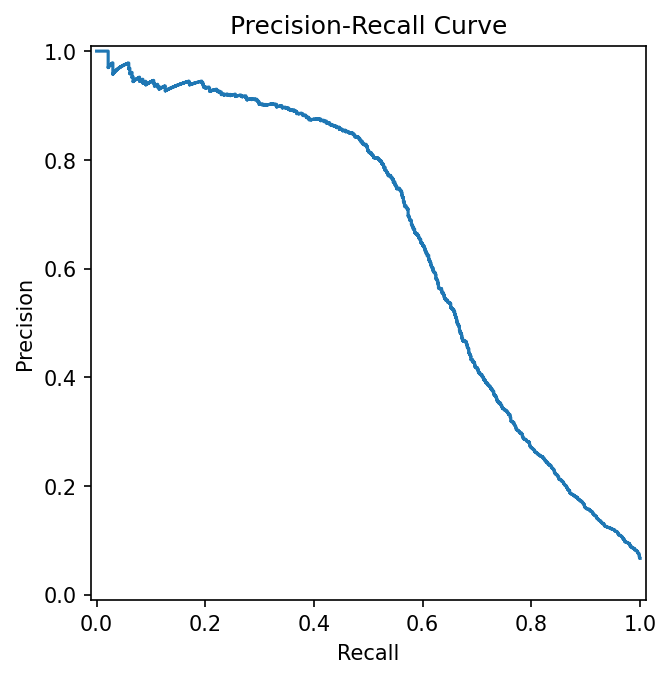
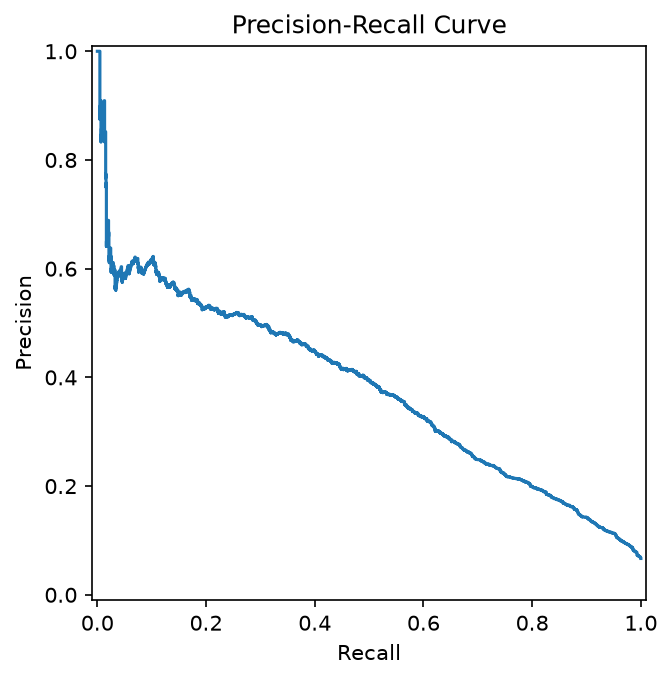
feat: 06·07을 저장된 최종 모델 로드 방식으로 바꾸고 새 데이터 기준 지표 재측정
- 06, 07: 하이퍼파라미터를 하드코딩해 재학습하던 코드를 models/xgboost_v1.0.joblib 로드로 교체
- 06: AUC 0.8640, KS 0.5745, PSI 0.0003 (MLflow final run 기록과 일치)
- 07: threshold별 precision/recall과 거절 건수 표, F1 최적 threshold 0.7758 vs KS 최적 0.4844,
  docs/precision_recall_curve.png 갱신. F1 계산 시 precision/recall 배열 길이를 thresholds에 맞춤
- docs/model_training.md: 타겟 누수가 섞인 옛 수치(AUC 0.9118 등)를 새 수치로 전면 교체
- .gitignore: 개인 Claude Code 설정(.claude/, CLAUDE.md) 제외

diff --git a/notebooks/07_precision_recall.py b/notebooks/07_precision_recall.py
@@ -1,23 +1,21 @@
-from src.config import FEATURE_GROUPS, TARGET
+import matplotlib
+matplotlib.use('Agg')   # 화면 없이 파일로만 그린다
+
+import joblib
+from src.config import FEATURE_GROUPS, MODEL_DIR, TARGET
 from src.data.pipeline import load_processed_splits
-from xgboost import XGBClassifier
 from sklearn.metrics import precision_recall_curve, PrecisionRecallDisplay
 import matplotlib.pyplot as plt
 import numpy as np
+from src.models.metrics import ks_statistic
 
 splits = load_processed_splits()
 train, test = splits['train'], splits['test']
 y_train, y_test = train[TARGET], test[TARGET]
 features = FEATURE_GROUPS['combined']
-scale_pos = (y_train == 0).sum() / (y_train == 1).sum()
 
-model = XGBClassifier(
-    scale_pos_weight=scale_pos,
-    max_depth=4, learning_rate=0.041, n_estimators=233,
-    subsample=0.78, colsample_bytree=0.72, min_child_weight=9,
-    eval_metric='auc', random_state=42,
-)
-model.fit(train[features], y_train)
+# 다시 학습하지 않고 train.py가 저장한 최종 모델을 불러온다 (MLflow Registry credit_risk_model@production과 같은 모델)
+model = joblib.load(MODEL_DIR / 'xgboost_v1.0.joblib')
 pred = model.predict_proba(test[features])[:, 1]
 
 precision, recall, thresholds = precision_recall_curve(y_test, pred)
@@ -29,7 +27,8 @@ for t in [0.3, 0.4, 0.5, 0.6, 0.7]:
     print(f'{t:.1f}       | {precision[idx]:.4f}    | {recall[idx]:.4f}')
 
 # F1이 최대가 되는 지점(precision/recall 균형점) 찾기
-f1_scores = 2 * (precision * recall) / (precision + recall + 1e-10)
+# precision/recall 배열은 thresholds보다 1개 길다 (마지막 값은 threshold 없는 끝점) -> 잘라서 맞춘다
+f1_scores = 2 * (precision[:-1] * recall[:-1]) / (precision[:-1] + recall[:-1] + 1e-10)
 best_idx = np.argmax(f1_scores)
 print(f'\nF1 최대 지점: threshold={thresholds[best_idx]:.4f}, '
       f'precision={precision[best_idx]:.4f}, recall={recall[best_idx]:.4f}, f1={f1_scores[best_idx]:.4f}')
@@ -41,37 +40,54 @@ plt.title('Precision-Recall Curve')
 plt.savefig('docs/precision_recall_curve.png', dpi=150, bbox_inches='tight')
 print('\n그래프 저장: docs/precision_recall_curve.png')
 
+ks, ks_thr = ks_statistic(y_test, pred)
+print(f'\nKS 최적 threshold: {ks_thr:.4f} (KS={ks:.4f}) / F1 최적 threshold: {thresholds[best_idx]:.4f}')
+
 '''
 [배경]
 모델은 0~1 사이 위험점수(확률)를 반환하지만, 실제 승인/거절은 어딘가에
 threshold(임계값)를 그어서 결정해야 함. threshold를 바꾸면 Precision과 Recall이
 트레이드오프 관계로 움직이므로, 여러 지점을 비교해 threshold 선택의 근거를 마련함.
 
-[결과]
+[결과] (2026-11-08, PR #4 이후 새 데이터 / models/xgboost_v1.0.joblib 로드, Test 22,500건 중 부도 1,504건)
 threshold | precision | recall
-0.3       | 0.1885    | 0.8703
-0.4       | 0.2423    | 0.8291
-0.5       | 0.3247    | 0.7620
-0.6       | 0.4548    | 0.6822
-0.7       | 0.5785    | 0.6270
+0.3       | 0.1387    | 0.9049
+0.4       | 0.1718    | 0.8544
+0.5       | 0.2132    | 0.7766   <- train.py DECISION_THRESHOLD 기본값. MLflow 기록(precision 0.2132, recall 0.7766)과 일치
+0.6       | 0.2668    | 0.6742
+0.7       | 0.3388    | 0.5798
 
-F1 최대 지점: threshold=0.8467, precision=0.7423, recall=0.5612, f1=0.6392
+F1 최대 지점: threshold=0.7758, precision=0.4042, recall=0.4894, f1=0.4427
+
+threshold별 실제 건수 (Test 22,500건)
+threshold        거절 건수(거절률)    거절 중 실제 부도   놓친 부도
+0.4844 (KS)      5,740 (25.5%)       1,189              315
+0.5 (기본값)     5,478 (24.3%)       1,168              336
+0.7758 (F1)      1,820 (8.1%)          735              769
 
 [비교 참고]
-KS 기준 최적 threshold: 0.5044 (TPR-FPR 차이 최대)
-F1 기준 최적 threshold: 0.8467 (Precision-Recall 조화평균 최대)
+KS 기준 최적 threshold: 0.4844 (TPR-FPR 차이 최대)
+F1 기준 최적 threshold: 0.7758 (Precision-Recall 조화평균 최대)
 -> 최적화 기준(무엇을 "최선"으로 정의하는가)에 따라 최적 threshold 자체가 달라짐
 
+[원인] 옛 결과(F1 최대 0.6392 @0.8467, KS threshold 0.5044)와 달라진 이유
+- 타겟 누수 제거(PR #4)로 모델이 부도/정상을 덜 확실하게 가르게 됨 -> 같은 threshold에서 precision이 크게 낮아짐
+  (0.5 기준 precision 0.3247 -> 0.2132)
+- precision이 낮은 기본 이유는 불균형: 부도율 6.68%라 정상 고객 일부만 잘못 걸러도 거절 목록에서 정상 고객 비율이 커짐
+  (scale_pos_weight로 부도 쪽 가중치를 올렸기 때문에 확률이 전체적으로 높게 나오는 것도 영향)
+
 [결론]
-threshold를 낮추면 Recall(위험고객을 놓치지 않는 정도)은 올라가지만 Precision(오진단 비율)은
-떨어지고, 높이면 반대로 움직이는 것을 확인함.
+threshold를 낮추면 Recall(위험고객을 놓치지 않는 정도)은 올라가지만 Precision은 떨어지고, 높이면 반대로 움직임.
 
-F1 최대 지점(균형점)이 통계적으로는 깔끔하지만, 실무에서는 이 지점을 그대로 채택하기보다
-Recall이 낮을 때의 손해(연체자를 승인해 발생하는 금전적 손실)와 Precision이 낮을 때의 손해
-(정상고객을 부당하게 거절 - 특히 씬파일러 같은 취약집단에 영향)의 무게를 비교해
-정책적으로 threshold를 결정해야 함.
+F1 최대 지점(0.7758)은 거절을 8%로 줄이는 대신 부도 고객의 절반(769/1,504)을 놓침.
+KS/기본값 지점(0.48~0.5)은 부도의 78%를 잡지만 거절 고객 4명 중 3명 이상이 실제로는 정상 고객.
+-> 둘 중 어느 쪽이 "맞다"가 아니라, 연체자 승인의 금전 손실(FN)과 정상 고객 부당 거절의 기회비용·차별(FP) 중
+   무엇을 더 무겁게 볼지 정책으로 정해야 함.
 
--> 특정 집단(씬파일러 등)에 별도 threshold를 적용하는 방안은 공정성 파트의
+-> 특정 집단(씬파일러, 보호 속성 집단)에 별도 threshold를 적용하는 방안은 공정성 파트의
    Threshold Adjustment(Bias Mitigation 기법)와 직접 연결됨.
--> 최종 threshold는 이후 공정성 검증 결과와 함께 종합적으로 결정 예정.
+-> 최종 threshold는 공정성 검증 결과와 함께 결정 예정 (그 전까지 train.py 기본값 0.5 유지).
+
+[리포트 활용]
+"threshold는 기술적 최적값이 아니라 비용 정책"이라는 논지의 근거로 위 건수 표를 그대로 쓸 수 있음.
 '''

diff --git a/docs/model_training.md b/docs/model_training.md
@@ -1,57 +1,88 @@
 # 모델 학습 & 하이퍼파라미터 튜닝 (고윤)
 
-## 1. Baseline 비교 (3개 모델 × 5-Fold Stratified CV)
+> 기준: PR #4(시뮬레이터 개편) 이후 새 데이터, 2026-11-08.
+> 출처: `models/best_params.json`(튜닝), MLflow `run_type=final` run(최종 평가), 노트북 05~07 주석.
 
-| 모델 | 불균형 처리 | AUC | 비고 |
-|---|---|---|---|
-| LogisticRegression | class_weight | 0.8982 | |
-| LogisticRegression | SMOTE | 0.8956 | |
-| XGBoost | scale_pos_weight | 0.8900 | |
-| XGBoost | SMOTE | 0.8991 | |
-| LightGBM | class_weight | 0.9090 | |
-| LightGBM | SMOTE | 0.9064 | |
+## 0. 옛 수치를 폐기한 이유
 
-**관찰**: LR/LightGBM은 class_weight가 우세, XGBoost는 SMOTE가 우세 (baseline 기준)
+이 문서의 예전 버전에는 AUC 0.9118, KS 0.6505, 씬파일러 uplift +0.0768이 적혀 있었다. 이 값들은 리포트에 쓰지 않는다.
+PR #4 전 시뮬레이터는 대안 변수 값을 타겟(부도 여부)으로 직접 낮춰 만들어서, 대안데이터에 정답 정보가 섞여 있었다(타겟 누수).
+그래서 통합 모델 AUC가 0.91까지 올라갔고, 대안 변수만 쓴 모델이 전통 변수 모델보다 높게 나오는 비현실적인 결과가 나왔다.
+지금은 전통 변수로 만든 신용점수에 노이즈를 더해 대안 변수를 만들기 때문에 누수가 없다.
+누수를 걷어낸 뒤 Test AUC는 0.9118에서 0.8640으로 0.0478 낮아졌다. 대신 이제 이 값이 실제 분리력이다.
 
-## 2. 하이퍼파라미터 튜닝
+## 1. 하이퍼파라미터 튜닝 + 불균형 처리 비교 (`python -X utf8 -m src.models.tune`)
 
-- 방법: LR은 `GridSearchCV`(조합 10개, 전수 탐색), XGB/LightGBM은 `RandomizedSearchCV`(n_iter=30)
-- CV: 5-Fold Stratified, `random_state=42` 고정 (재현성)
+- 3개 모델 × 2가지 불균형 처리 = 6개 조합을 같은 5-Fold Stratified CV(`random_state=42`)로 탐색
+- LR은 `GridSearchCV`(10개 조합 전수 탐색), XGBoost·LightGBM은 `RandomizedSearchCV`(n_iter=30)
+- SMOTE는 imblearn Pipeline 안에 넣어 CV의 학습 fold에만 적용 (검증 fold 누수 방지)
+- 모델마다 CV AUC가 높은 방식을 골라 `models/best_params.json`에 저장
 
-| 모델 | 최적 불균형처리 | 튜닝 전 AUC | 튜닝 후 AUC | 개선폭 |
+| 모델 | 가중치 방식 (CV AUC) | SMOTE (CV AUC) | 채택 | 최적 하이퍼파라미터 |
 |---|---|---|---|---|
-| LR | class_weight | 0.8982 | 0.8982 | +0.0000 |
-| LightGBM | class_weight | 0.9090 | 0.9112 | +0.0022 |
-| XGBoost | scale_pos_weight | 0.8900 | 0.9118 | +0.0218 |
+| LR | 0.8478 (class_weight) | 0.8448 | class_weight | C=0.1, l1_ratio=1 (L1) |
+| LightGBM | 0.8561 (class_weight) | 0.8494 | class_weight | learning_rate 0.024, max_depth 9, num_leaves 15, n_estimators 443, min_child_samples 18 |
+| XGBoost | 0.8565 (scale_pos_weight) | 0.8498 | scale_pos_weight | learning_rate 0.041, max_depth 4, n_estimators 233, subsample 0.78, colsample_bytree 0.72, min_child_weight 9 |
 
-**핵심 발견**: XGBoost는 튜닝 전 최하위였으나 튜닝 후 최고 성능으로 역전. LR은 선형모델 구조상 튜닝 효과가 구조적으로 제한적.
+**발견**
+- 3개 모델 모두 가중치 방식이 SMOTE보다 0.003~0.007 높다.
+- 옛 데이터의 튜닝 전 baseline에서는 XGBoost만 SMOTE가 우세했다가 튜닝 후 뒤집혔다. 그래서 불균형 처리 방식과 하이퍼파라미터는 따로 정하면 안 된다.
+- 새 데이터로는 튜닝 전 baseline(`03_baseline_model.py`)을 다시 재지 않았다. 튜닝 전후 개선폭은 아직 측정하지 않았다.
+- XGBoost와 LightGBM의 최적 하이퍼파라미터가 옛 데이터 튜닝값과 같게 나왔다. seed와 탐색 범위가 같아서 같은 후보가 1등이 된 것으로 보인다. 재실행 자체는 `tune_seconds` 기록으로 확인했다.
 
-## 3. 불균형 처리 방식 재검증 (튜닝된 하이퍼파라미터 기준)
+## 2. 최종 모델 평가 (`python -X utf8 -m src.models.train`)
 
-| 모델 | class_weight/scale_pos | SMOTE | 최적 방식 |
-|---|---|---|---|
-| LR | 0.8982 | 0.8966 | class_weight |
-| LightGBM | 0.9112 | 0.9070 | class_weight |
-| XGBoost | 0.9118 | 0.9067 | scale_pos_weight |
+Train 전체로 다시 학습해 Test 22,500건(부도 1,504건)으로 평가했다. 기준 threshold는 0.5(`train.py` `DECISION_THRESHOLD`)다.
 
-**핵심 발견**: baseline에서는 XGB+SMOTE가 우세했으나, 튜닝 후에는 3개 모델 전부 class_weight 계열이 SMOTE를 앞섬 → 불균형 처리 방식과 하이퍼파라미터는 독립적으로 판단하면 안 됨을 시사
+| 모델 | CV AUC (5-Fold) | Test AUC | KS | Precision | Recall | F1 | PSI (train vs test) |
+|---|---|---|---|---|---|---|---|
+| LR | 0.8478 ±0.0024 | 0.8583 | 0.5575 | 0.2079 | 0.7633 | 0.3267 | 0.0007 |
+| LightGBM | 0.8561 ±0.0033 | 0.8641 | 0.5766 | 0.2130 | 0.7660 | 0.3333 | 0.0003 |
+| **XGBoost** | **0.8565** ±0.0031 | 0.8640 | 0.5745 | 0.2132 | 0.7766 | 0.3346 | 0.0003 |
 
-## 4. CPU vs GPU 리소스 비교
+- **최종 모델은 XGBoost + scale_pos_weight**다. Registry `credit_risk_model@production`에 등록했다.
+  - CV AUC 1위라서 자동으로 선정됐다. Test로 고르면 Test 정보가 선택에 쓰여 성능이 부풀려지므로 CV로 고른다.
+  - LightGBM과는 Test AUC 0.0001 차이라 사실상 동률이다.
+  - 선택 이유는 CV AUC 근소 우위, SHAP TreeExplainer 호환(순수 XGBClassifier라 그대로 넣을 수 있음), 학습·추론 속도 정도로 쓴다.
+- **목표 충족 여부**
+  - KS 0.5745: 목표 0.28 이상
+  - PSI 0.0003: 목표 0.1 미만
 
-- LightGBM(CPU): 127초 vs XGBoost(GPU, CUDA): 233초 → CPU가 약 1.8배 빠름
-- 원인: 데이터 규모(10만 행)가 작아 GPU 병렬처리 이득보다 CPU↔GPU 데이터 전송 오버헤드가 더 큼 (실행 로그의 `mismatched devices` 경고로 확인)
-- 결론: 현재 캡스톤 규모에서는 GPU 불필요, CPU 학습이 더 효율적
+## 3. 최종 모델 상세 검증 (노트북 05~07, 저장된 `models/xgboost_v1.0.joblib` 사용)
 
-## 5. 최종 모델 확정
+### KS·PSI (`06_ks_psi.py`)
+- KS 0.5745 (threshold 0.4844), PSI 0.0003. MLflow 기록과 일치한다.
 
-| 모델 | 최적 조합 | AUC |
-|---|---|---|
-| **XGBoost** | scale_pos_weight | **0.9118** (최종 채택) |
-| LightGBM | class_weight | 0.9112 |
-| LR | class_weight | 0.8982 |
+### Precision-Recall Trade-off (`07_precision_recall.py`, `docs/precision_recall_curve.png`)
+
+| threshold | precision | recall | 거절률 | 놓친 부도 (/1,504) |
+|---|---|---|---|---|
+| 0.4844 (KS 최적) | 0.2071 | 0.7906 | 25.5% | 315 |
+| 0.5 (기본값) | 0.2132 | 0.7766 | 24.3% | 336 |
+| 0.7758 (F1 최적) | 0.4042 | 0.4894 | 8.1% | 769 |
+
+- KS 기준과 F1 기준의 최적 threshold가 다르다.
+- threshold는 연체자 승인 손실(FN)과 정상 고객 부당 거절(FP)의 비용을 비교해 정책으로 정한다.
+- 최종 threshold는 공정성 검증(Threshold Adjustment) 뒤 결정한다.
+
+### 씬파일러 AUC uplift (`05_thin_filter_uplift.py`)
+- 씬파일러 uplift(통합−전통): **+0.0289**, 부트스트랩 95% CI [+0.019, +0.039]
+  - 목표 +0.03은 경계선이라 달성인지 미달인지 통계적으로 가를 수 없다.
+- 일반 고객 uplift: −0.0044, CI 전체가 0 미만이다.
+- 대안데이터는 전통 데이터를 대체하는 게 아니라, 전통 데이터가 부족할 때 쓰는 보완재다.
+- 재현성 주의: XGBoost 스레드 수만 바꿔도 uplift가 ±0.0015 흔들린다. 그래서 05는 `N_JOBS=4`로 고정한다.
+
+## 4. CPU vs GPU (옛 데이터 측정, 결론은 유효)
+
+- LightGBM(CPU) 127초, XGBoost(GPU, CUDA) 233초였다. CPU가 약 1.8배 빨랐다.
+- 데이터가 약 10만 행으로 작아서 GPU 병렬처리 이득보다 CPU↔GPU 데이터 전송 비용이 더 크다(`mismatched devices` 경고).
+- 지금 코드는 CPU 기준이다.
 
 ## 참고 코드
-- `notebooks/03_baseline_model.py` — 3개 모델 baseline + CV
-- `notebooks/04-1_hyperparameter_lgbm.py` — LightGBM 튜닝 (CPU)
-- `notebooks/04-2_hyperparameter_xgb.py` — XGBoost 튜닝 (GPU)
-- `notebooks/04-3_hyperparameter_lr.py` — LR 튜닝
+- `src/models/estimators.py`: 모델별 탐색 범위, 불균형 처리 방식, 모델 생성
+- `src/models/tune.py`: 6개 조합 튜닝 → `models/best_params.json`
+- `src/models/train.py`: 최종 학습·평가·저장, MLflow 기록, Registry 등록
+- `src/models/metrics.py`: KS, PSI, classification metrics
+- `notebooks/05_thin_filter_uplift.py`, `05-1_thin_filer_uplift_retuned.py`: 씬파일러 uplift + 부트스트랩
+- `notebooks/06_ks_psi.py`, `07_precision_recall.py`: 최종 모델 KS/PSI, threshold 분석
+- `notebooks/03_baseline_model.py`, `04-*`: 옛 데이터 기준 baseline과 개별 튜닝 기록 (주석 수치는 폐기)
